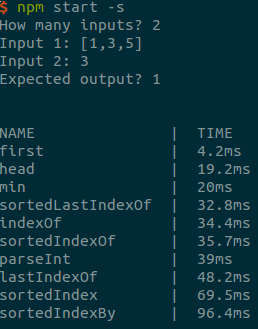
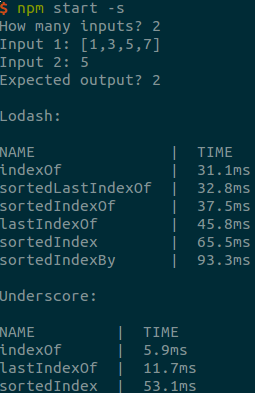
Add underscore support

diff --git a/index.js b/index.js
@@ -1,4 +1,5 @@
 import _ from 'lodash';
+import underscore from 'underscore';
 import { createInterface } from 'readline';
 import { promisify } from 'bluebird';
 import columnify from 'columnify';
@@ -24,13 +25,13 @@ function parseInput(input) {
   return result;
 }
 
-
 const rl = createInterface({
   input: process.stdin,
   output: process.stdout
 });
 
 let args;
+let out;
 
 rlPromise('How many inputs? ').then(answer => {
   const numInputs = parseInt(answer);
@@ -48,17 +49,23 @@ rlPromise('How many inputs? ').then(answer => {
   return rlPromise('Expected output? ');
 }).then(output => {
   rl.close();
+  out = output;
 
+  testLibrary(_, 'Lodash:');
+  testLibrary(_.omit(underscore, ['delay', 'defer']), 'Underscore:');
+});
+
+function testLibrary(lib, libName) {
   // Map all lodash functions to how long they take to execute, or false if they
   // don't produce the desired output.
-  const results = _(_).mapValues((func, name) => {
+  const results = _(lib).mapValues((func, name) => {
     // Some elements in the lodash object aren't functions, so catch exceptions
     try {
       const timeStart = process.hrtime();
       // Call lodash function with all supplied arguments
       const result = func(...(args.map(parseInput)));
       const timeEnd = process.hrtime(timeStart);
-      if (result === parseInput(output)) return timeEnd[1];
+      if (result === parseInput(out)) return timeEnd[1];
       return false;
     } catch(e) {};
   })
@@ -73,9 +80,9 @@ rlPromise('How many inputs? ').then(answer => {
     { time: `${Math.round(result.time / 100) / 10}ms`}))
   .value();
 
-  console.log('\n');
+  console.log(`\n${libName}\n`);
   console.log(columnify(results, {
     columns: ['name', 'time'],
     columnSplitter: '  |  '
   }));
-});
+}
